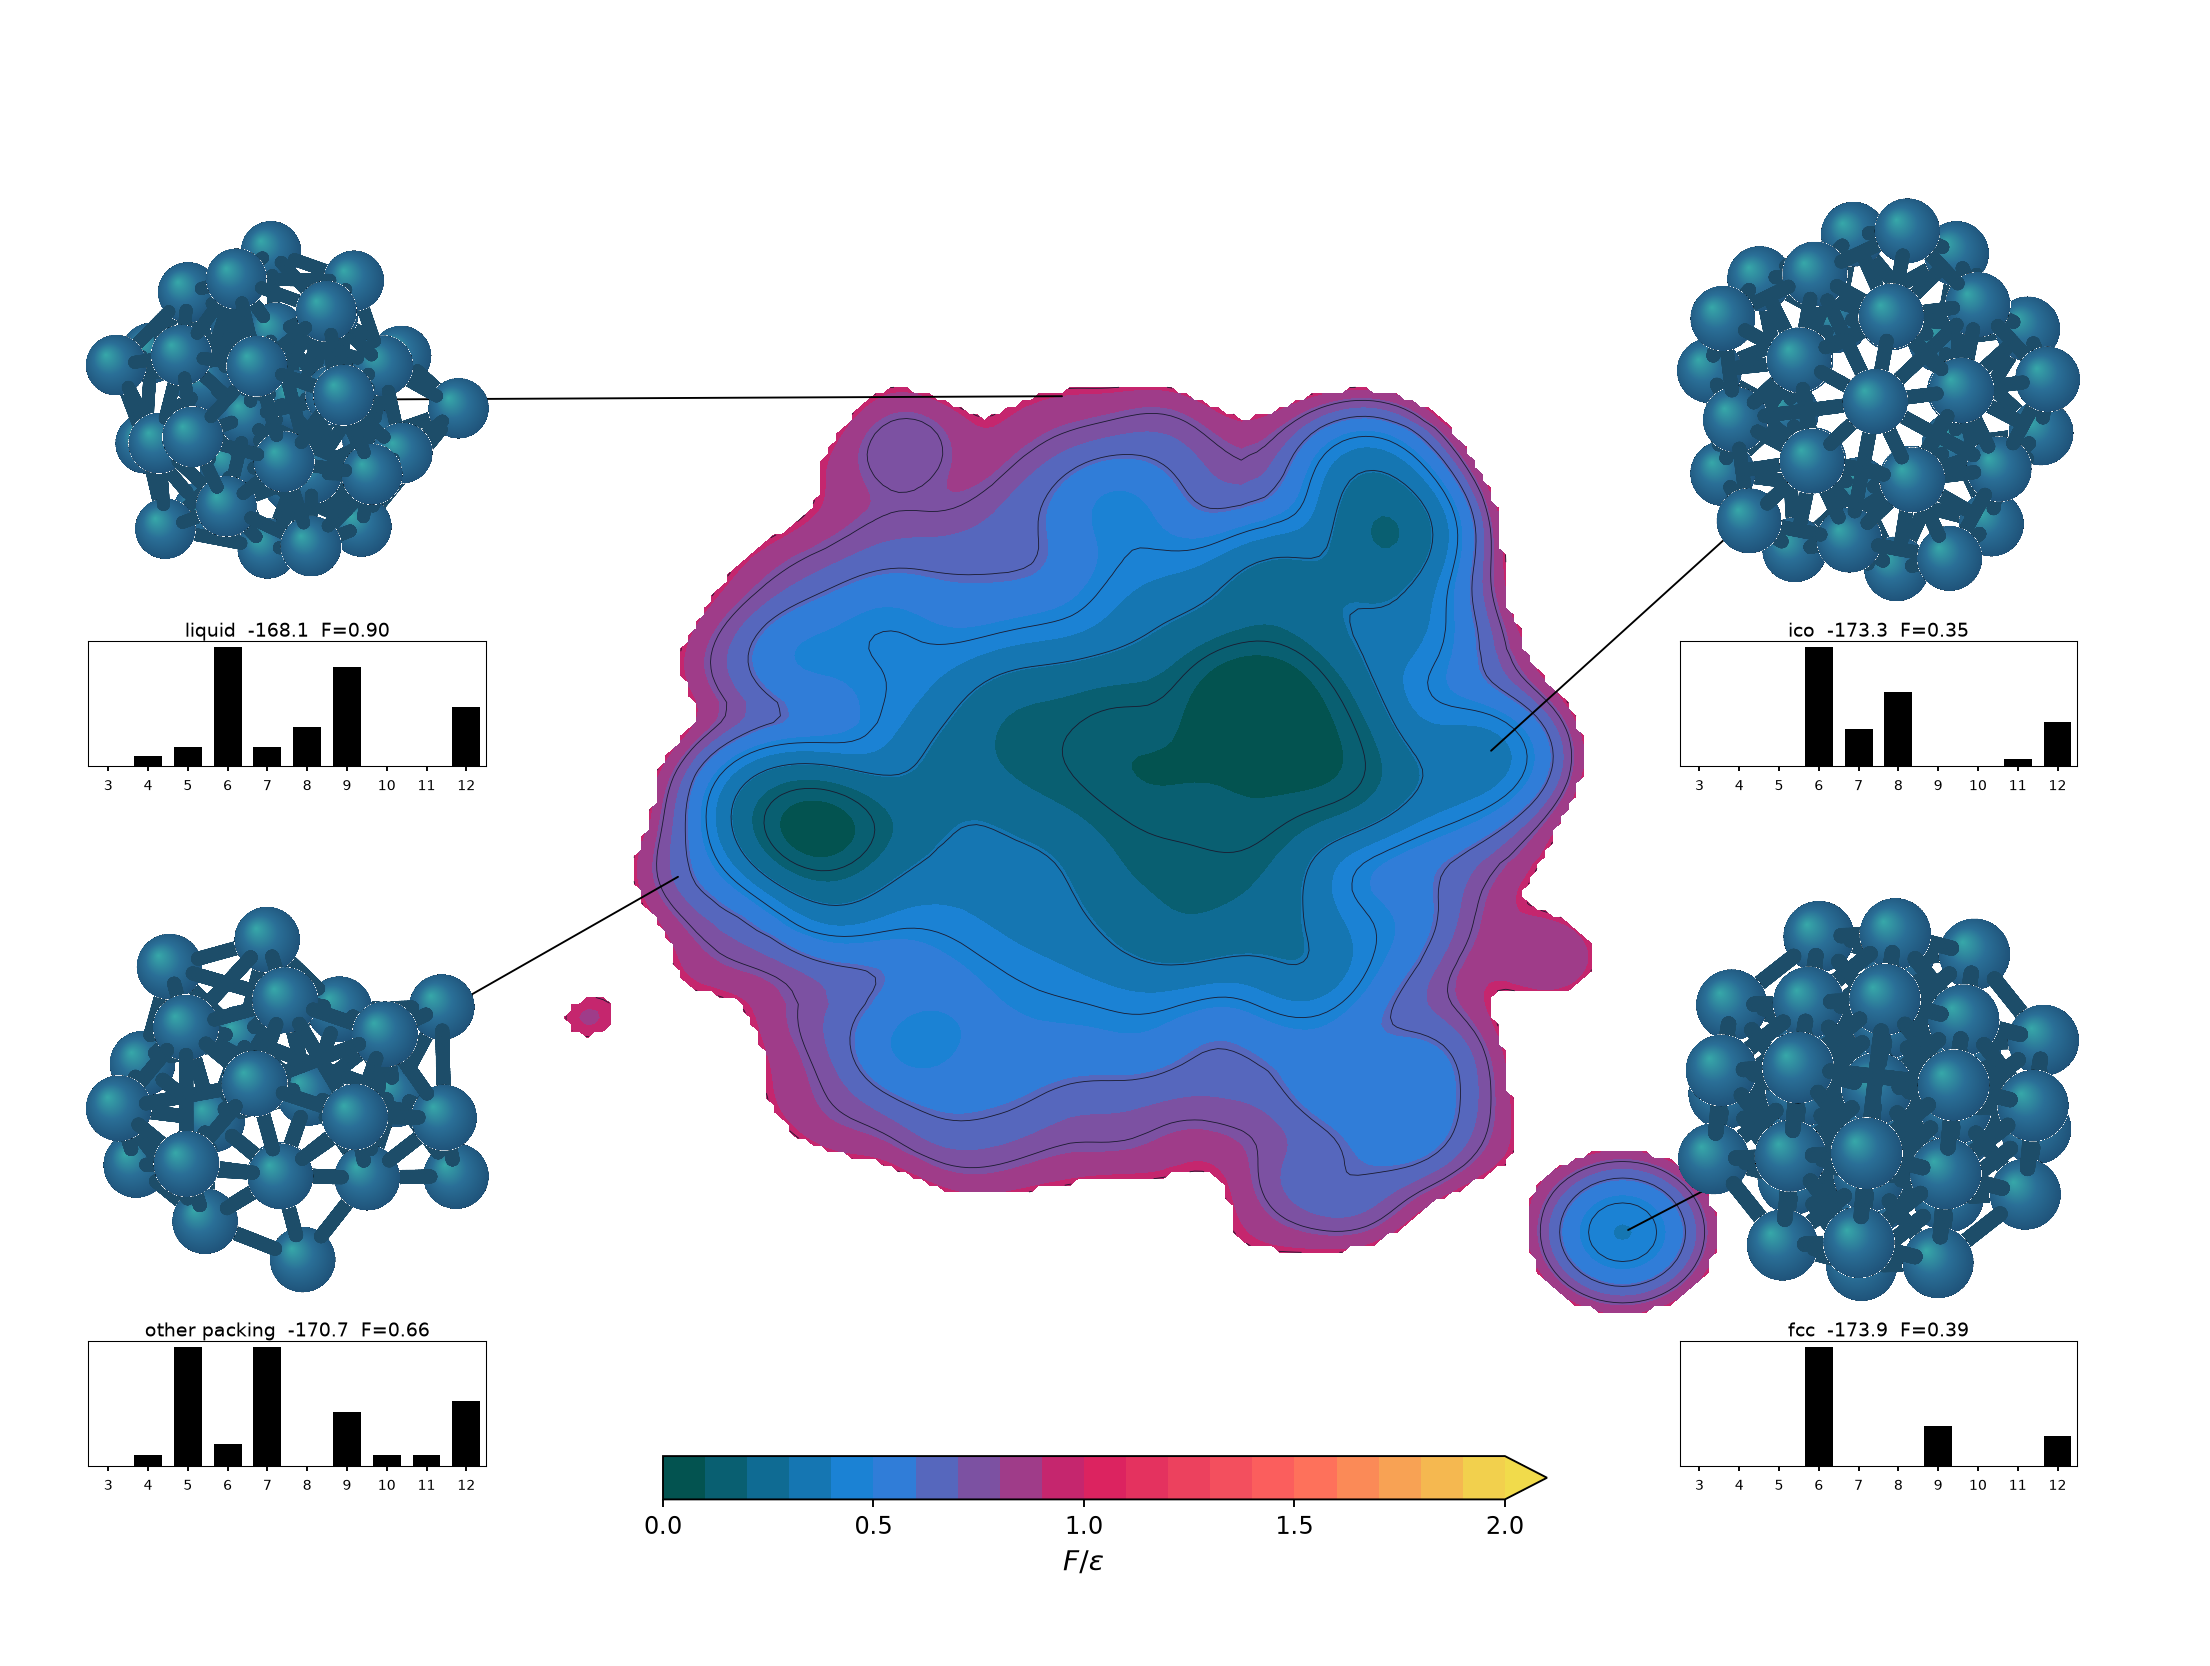
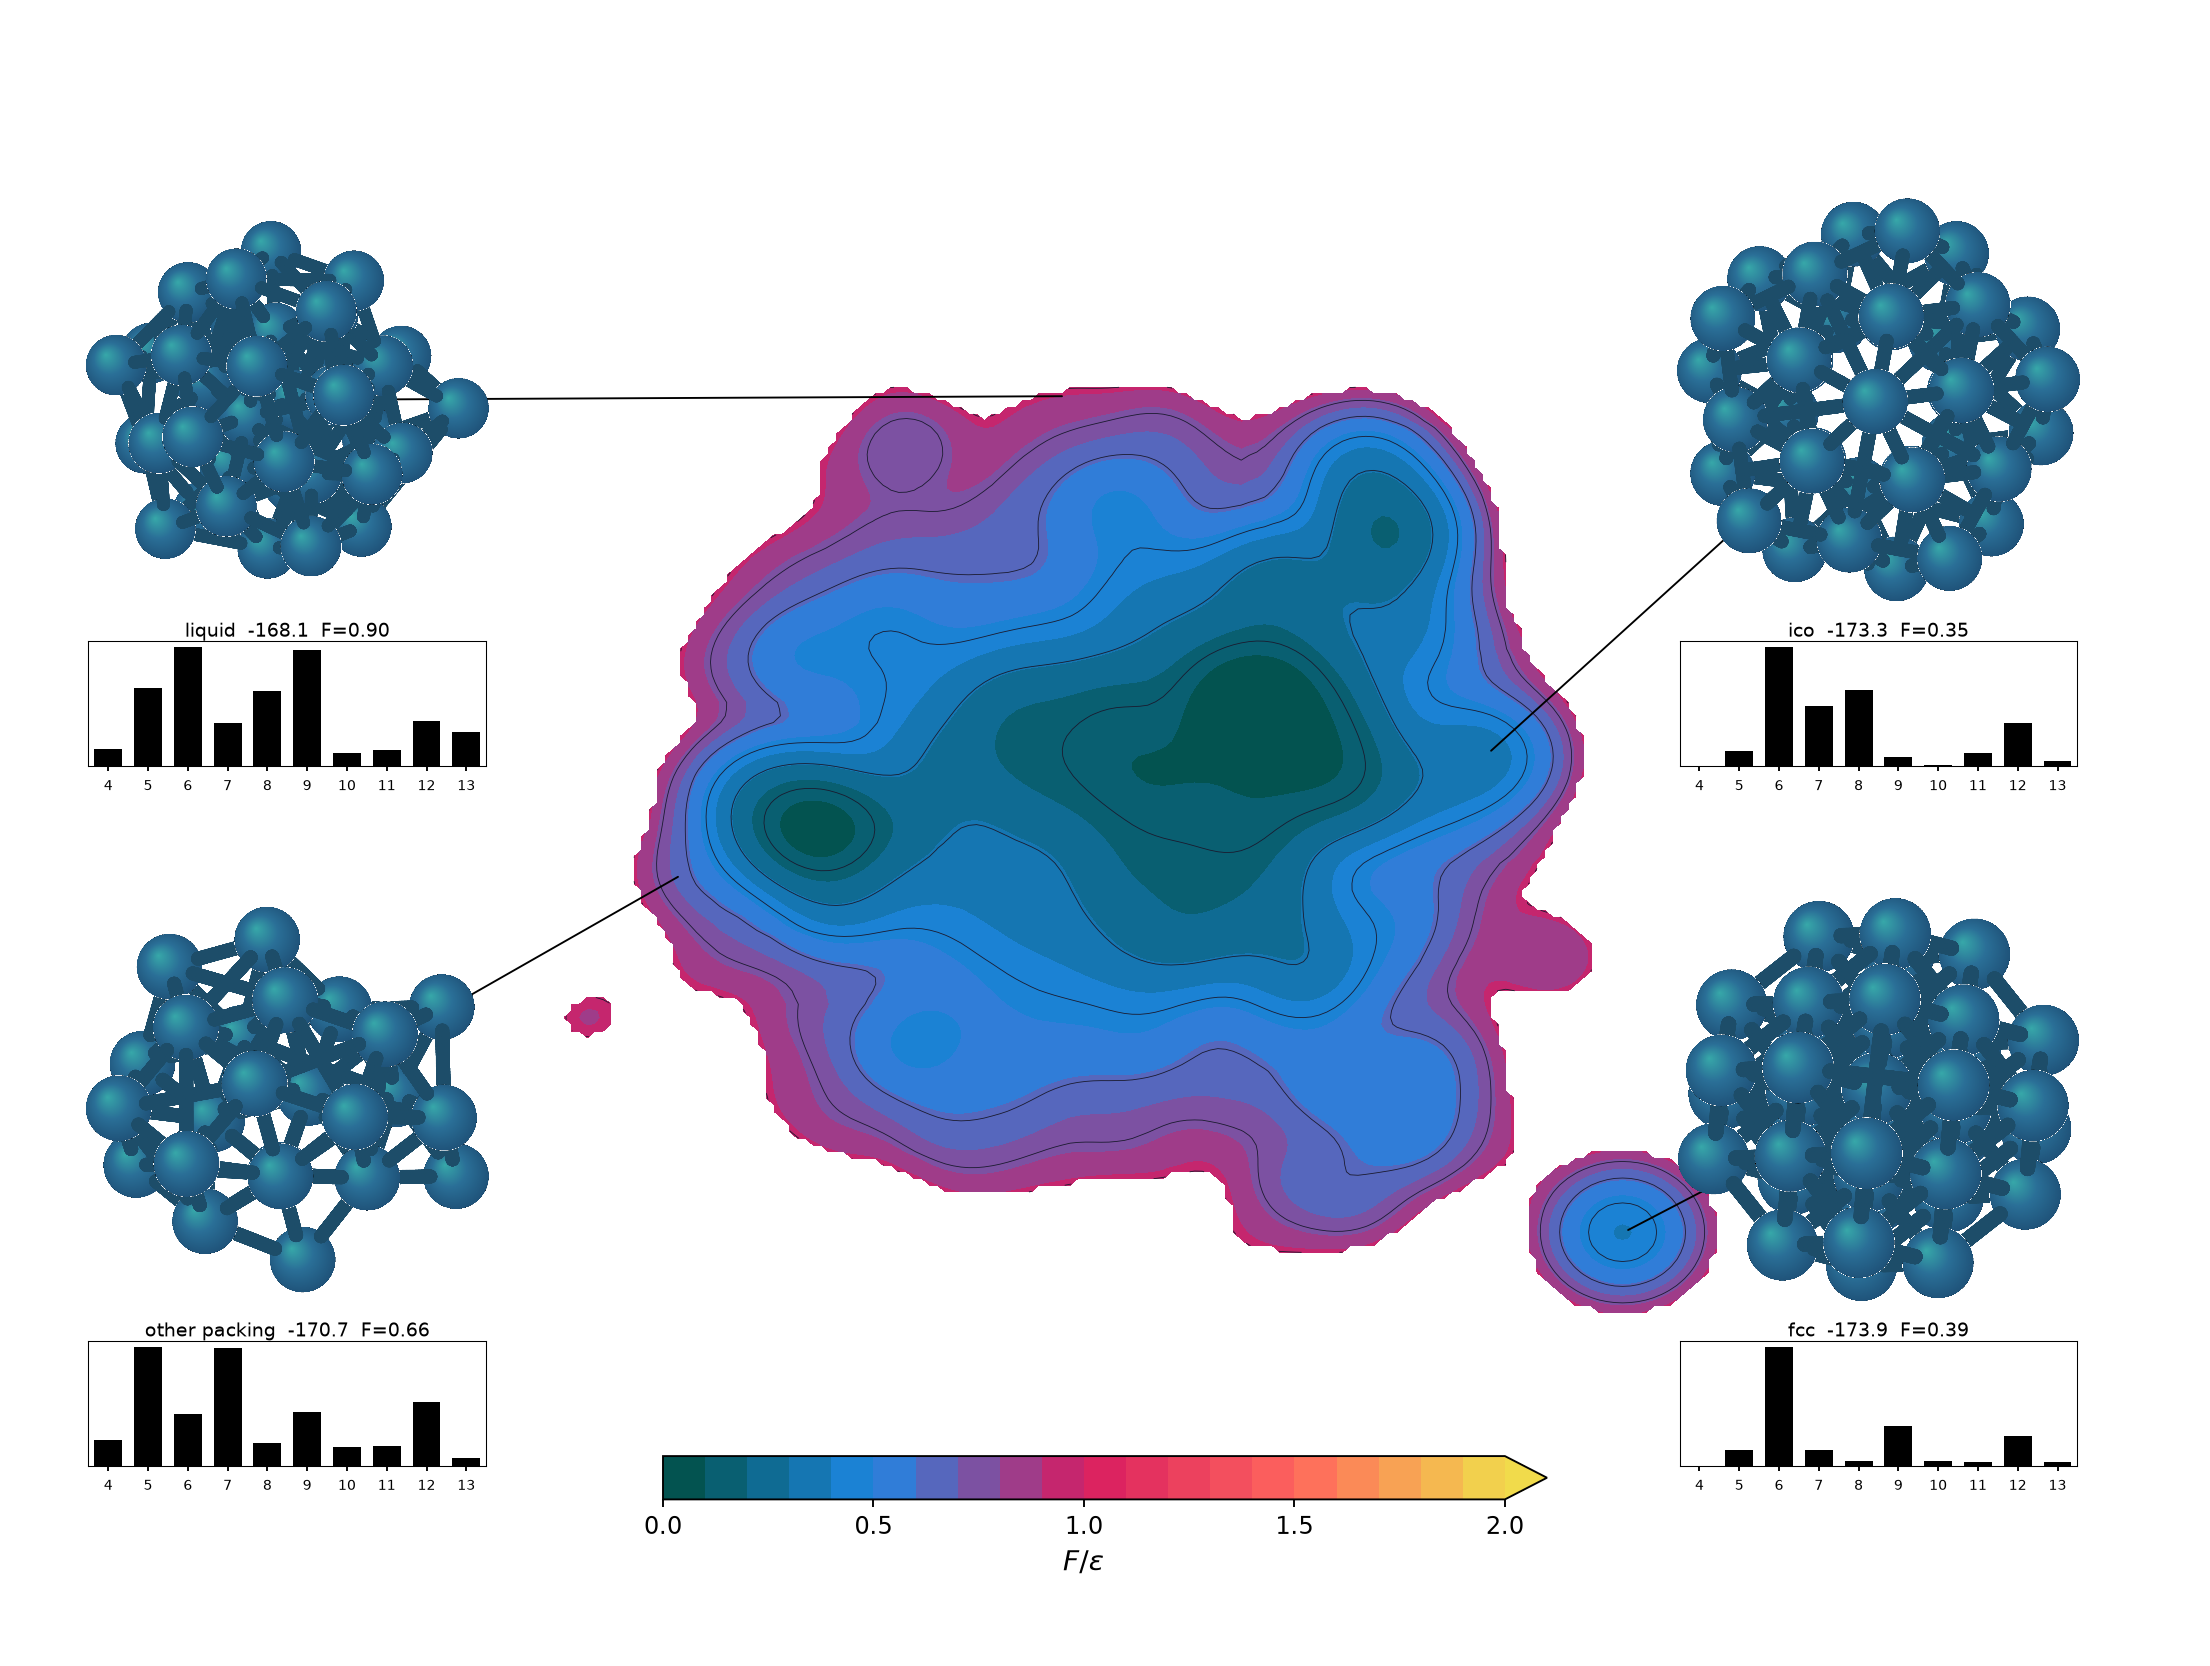
docs: n4..n13 bars on the Elja teaching FES
Integer CN 3-12 is the same spike at n6 for fcc and ico. The
soft n4..n13 vector is what asinh actually embeds.

diff --git a/scripts/occ_book_teach.py b/scripts/occ_book_teach.py
@@ -162,6 +162,7 @@ def main() -> None:
     cf = _cf()
     xy = load_xy(PROJ)
     e = np.loadtxt("/tmp/occ-book/lj38.energy")
+    cv = np.loadtxt("/tmp/occ-book/lj38.cv")
     if not CSV.is_file():
         write_fes(xy, CSV)
     gx, gy, fes = load_fes(CSV)
@@ -237,12 +238,13 @@ def main() -> None:
             arrowprops=dict(arrowstyle="-", color="k", lw=0.8),
         )
         fval = cf.fes_at(gx, gy, fes, tip)
-        k, c = cf.cn_hist(xyz)
+        desc = cv[index]
         hax = fig.add_axes([fx - 0.09, fy - 0.22, 0.18, 0.075])
-        hax.bar(k, c, color="k", width=0.7)
-        hax.set_xlim(2.5, 12.5)
-        hax.set_xticks(cf.CN_BINS)
-        hax.set_xticklabels([str(int(v)) for v in cf.CN_BINS])
+        bins = np.arange(4, 14)
+        hax.bar(bins, desc, color="k", width=0.7)
+        hax.set_xlim(3.5, 13.5)
+        hax.set_xticks(bins)
+        hax.set_xticklabels([str(int(v)) for v in bins])
         hax.tick_params(labelsize=6, length=2)
         hax.set_yticks([])
         hax.set_title(f"{label}  {energies[name]:.1f}  F={fval:.2f}", fontsize=8, pad=2)
